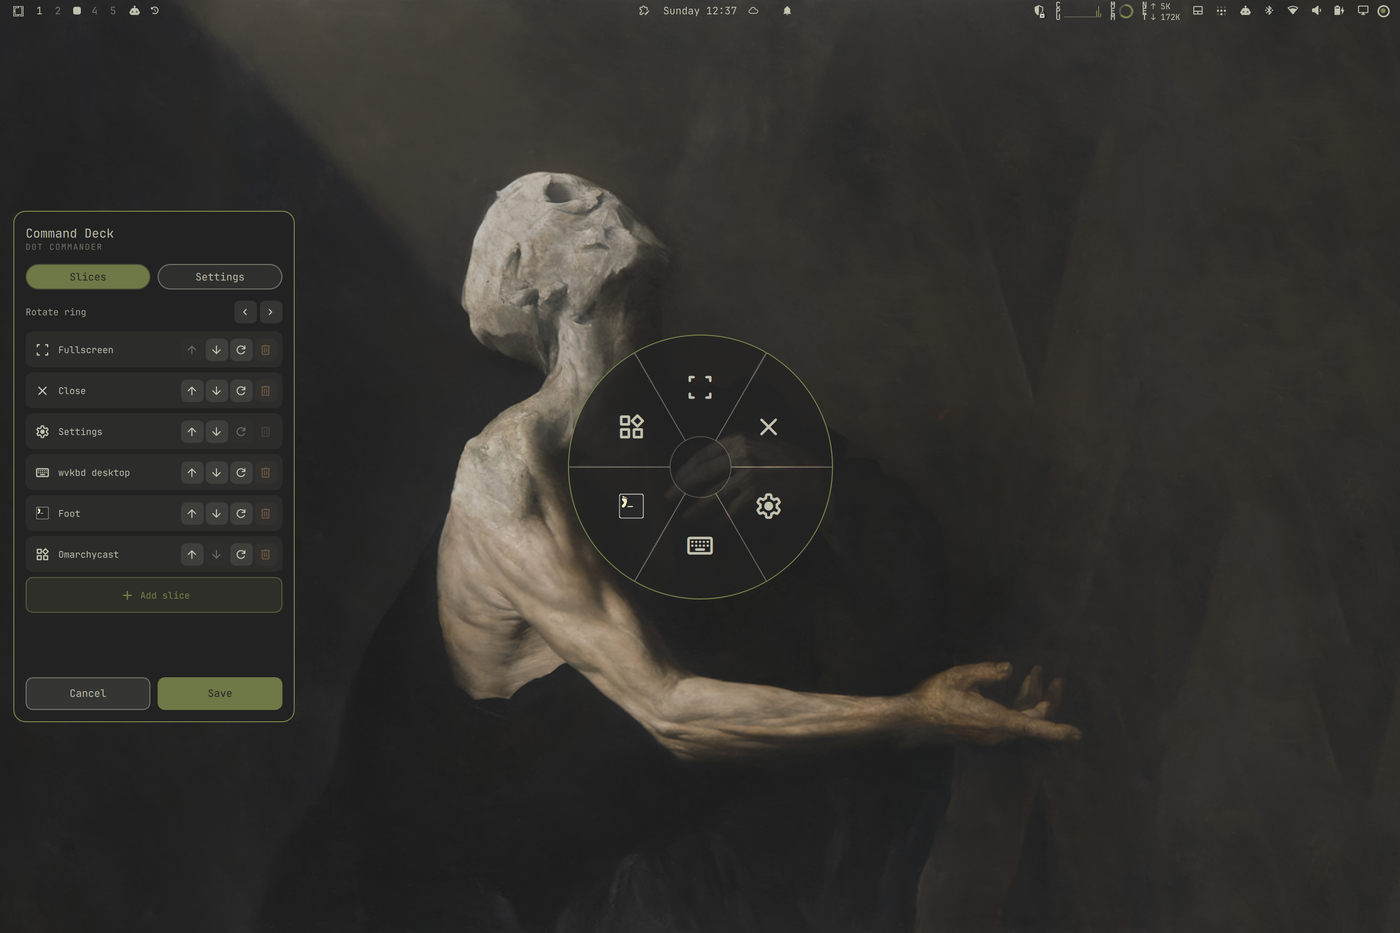
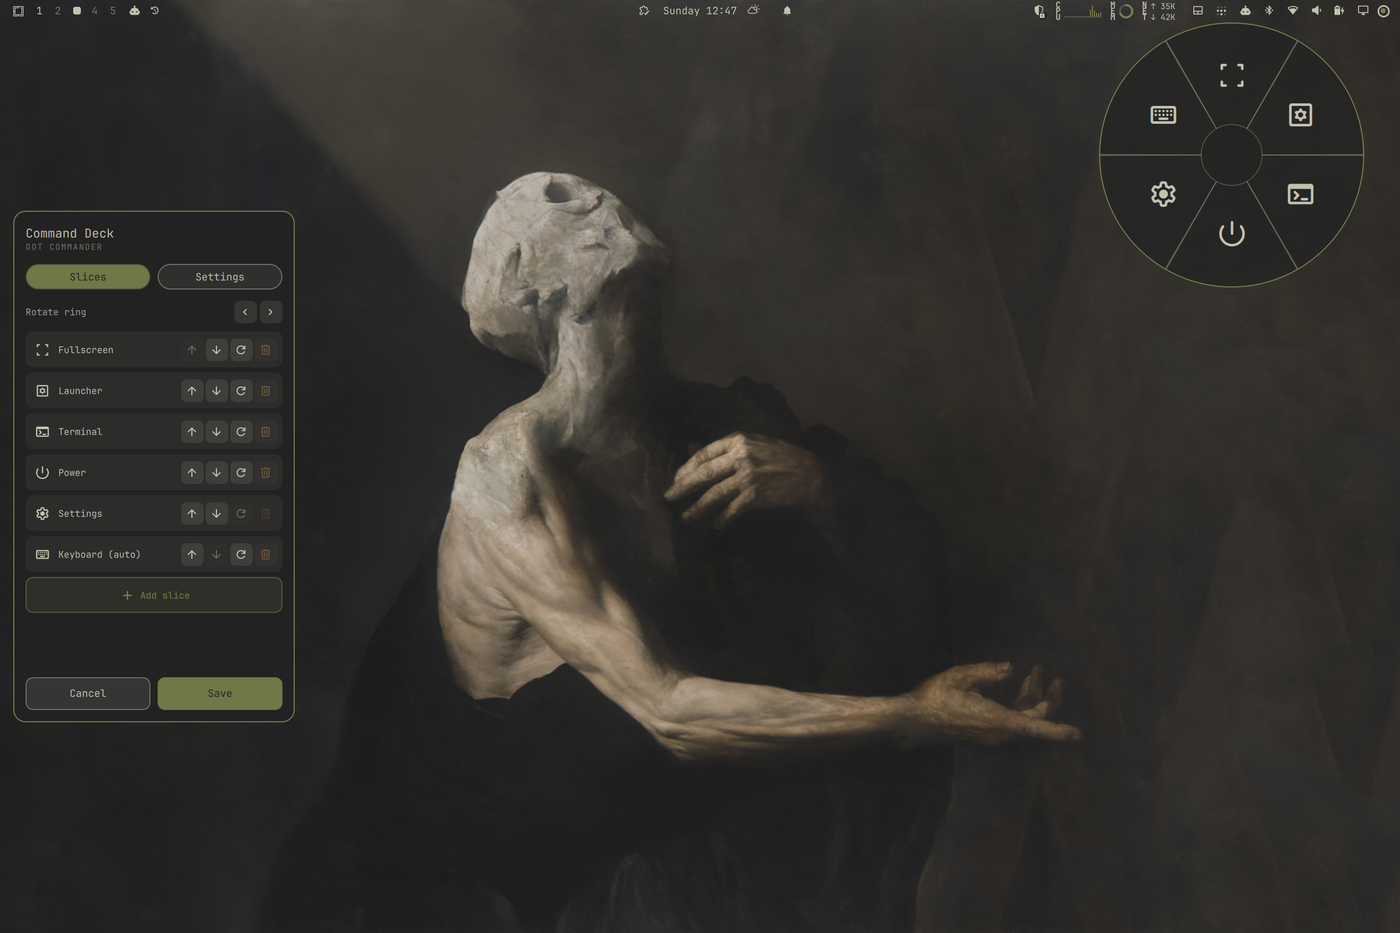
New default pie and fresh screenshots
Default slices are now Fullscreen, Launcher, Terminal, Power, Settings and
Keyboard. Add sys.terminal (omarchy-launch-terminal) and sys.power (the Omarchy
system menu) catalog entries, and relabel sys.apps to Launcher. Redo all four
screenshots with the defaults and the dot in the upper right.

diff --git a/Catalog.js b/Catalog.js
@@ -43,14 +43,18 @@ var WINDOW = [
 // `section` groups them in the picker.
 
 var SYSTEM = [
-  { key: "sys.apps",       label: "Apps",       glyph: g(0xE8B9), section: "Launch",
+  { key: "sys.apps",       label: "Launcher",   glyph: g(0xE8B9), section: "Launch",
     argv: ["omarchy", "menu", "toggle"] },
+  { key: "sys.terminal",   label: "Terminal",   glyph: g(0xEB8E), section: "Launch",
+    argv: ["omarchy-launch-terminal"] },
   { key: "sys.screenshot", label: "Screenshot", glyph: g(0xE412), section: "Capture",
     argv: ["omarchy", "capture", "screenshot", "fullscreen", "copy"] },
   { key: "sys.record",     label: "Record",     glyph: g(0xE04B), section: "Capture",
     argv: ["omarchy", "capture", "screenrecording", "--fullscreen"] },
   { key: "sys.lock",       label: "Lock",       glyph: g(0xE897), section: "Power",
     argv: ["omarchy", "system", "lock"] },
+  { key: "sys.power",      label: "Power",      glyph: g(0xF8C7), section: "Power",
+    argv: ["omarchy", "menu", "toggle", "system"] },
   { key: "sys.rotate",     label: "Rotate",     glyph: g(0xE1C1), section: "Display",
     argv: ["texp-rotate", "next"] },
   { key: "sys.nightlight", label: "Night light", glyph: g(0xE8B4), section: "Display",

diff --git a/Dot.qml b/Dot.qml
@@ -223,10 +223,11 @@ Item {
   //     catalog as `sys.setup` and can be added from the picker.
   readonly property var defaultSlices: [
     { key: "hypr.window.fullscreen" },
-    { key: "hypr.window.float" },
-    { key: "sys.keyboard" },
     { key: "sys.apps" },
-    { key: "pie.edit" }
+    { key: "sys.terminal" },
+    { key: "sys.power" },
+    { key: "pie.edit" },
+    { key: "sys.keyboard" }
   ]
 
   // ---- catalogs ----------------------------------------------------------

diff --git a/README.md b/README.md
@@ -81,9 +81,9 @@ o.bind("SUPER + SHIFT + PERIOD", "Edit touch pie", "omarchy-shell shell call io.
 | Tap elsewhere, or `Esc` | Dismiss |
 | Right-click the bar icon | Open the Command Deck on Settings |
 
-The default pie has five slices: **Fullscreen**, **Float**, **Keyboard**,
-**Apps** and **Settings**. The Settings slice is the only way into the editor
-from the pie, so it cannot be removed.
+The default pie has six slices: **Fullscreen**, **Launcher**, **Terminal**,
+**Power**, **Settings** and **Keyboard**. The Settings slice is the only way into
+the editor from the pie, so it cannot be removed.
 
 ### The Command Deck
 
@@ -152,7 +152,7 @@ Built-in slices reference these keys (see [`Catalog.js`](Catalog.js)).
 | Section | Keys |
 |---|---|
 | Window | `hypr.window.close`, `hypr.window.fullscreen`, `hypr.window.float`, `hypr.window.pin`, `hypr.window.center`, `hypr.window.kill` |
-| System | `sys.apps`, `sys.screenshot`, `sys.record`, `sys.lock`, `sys.rotate`, `sys.nightlight`, `sys.brightup`, `sys.brightdown`, `sys.volup`, `sys.voldown`, `sys.theme`, `sys.setup`, `sys.commander` |
+| System | `sys.apps`, `sys.terminal`, `sys.screenshot`, `sys.record`, `sys.lock`, `sys.power`, `sys.rotate`, `sys.nightlight`, `sys.brightup`, `sys.brightdown`, `sys.volup`, `sys.voldown`, `sys.theme`, `sys.setup`, `sys.commander` |
 | Keyboard | `sys.keyboard` (auto), `kb.wvkbd_desktop`, `kb.wvkbd_mobile`, `kb.squeekboard`, `sys.keyboard_omarchy` |
 | Pie | `pie.recenter`, `pie.edit`, `pie.reset` |
 | Menu | every labelled route from Omarchy's menu, as `menu.<route>` |
